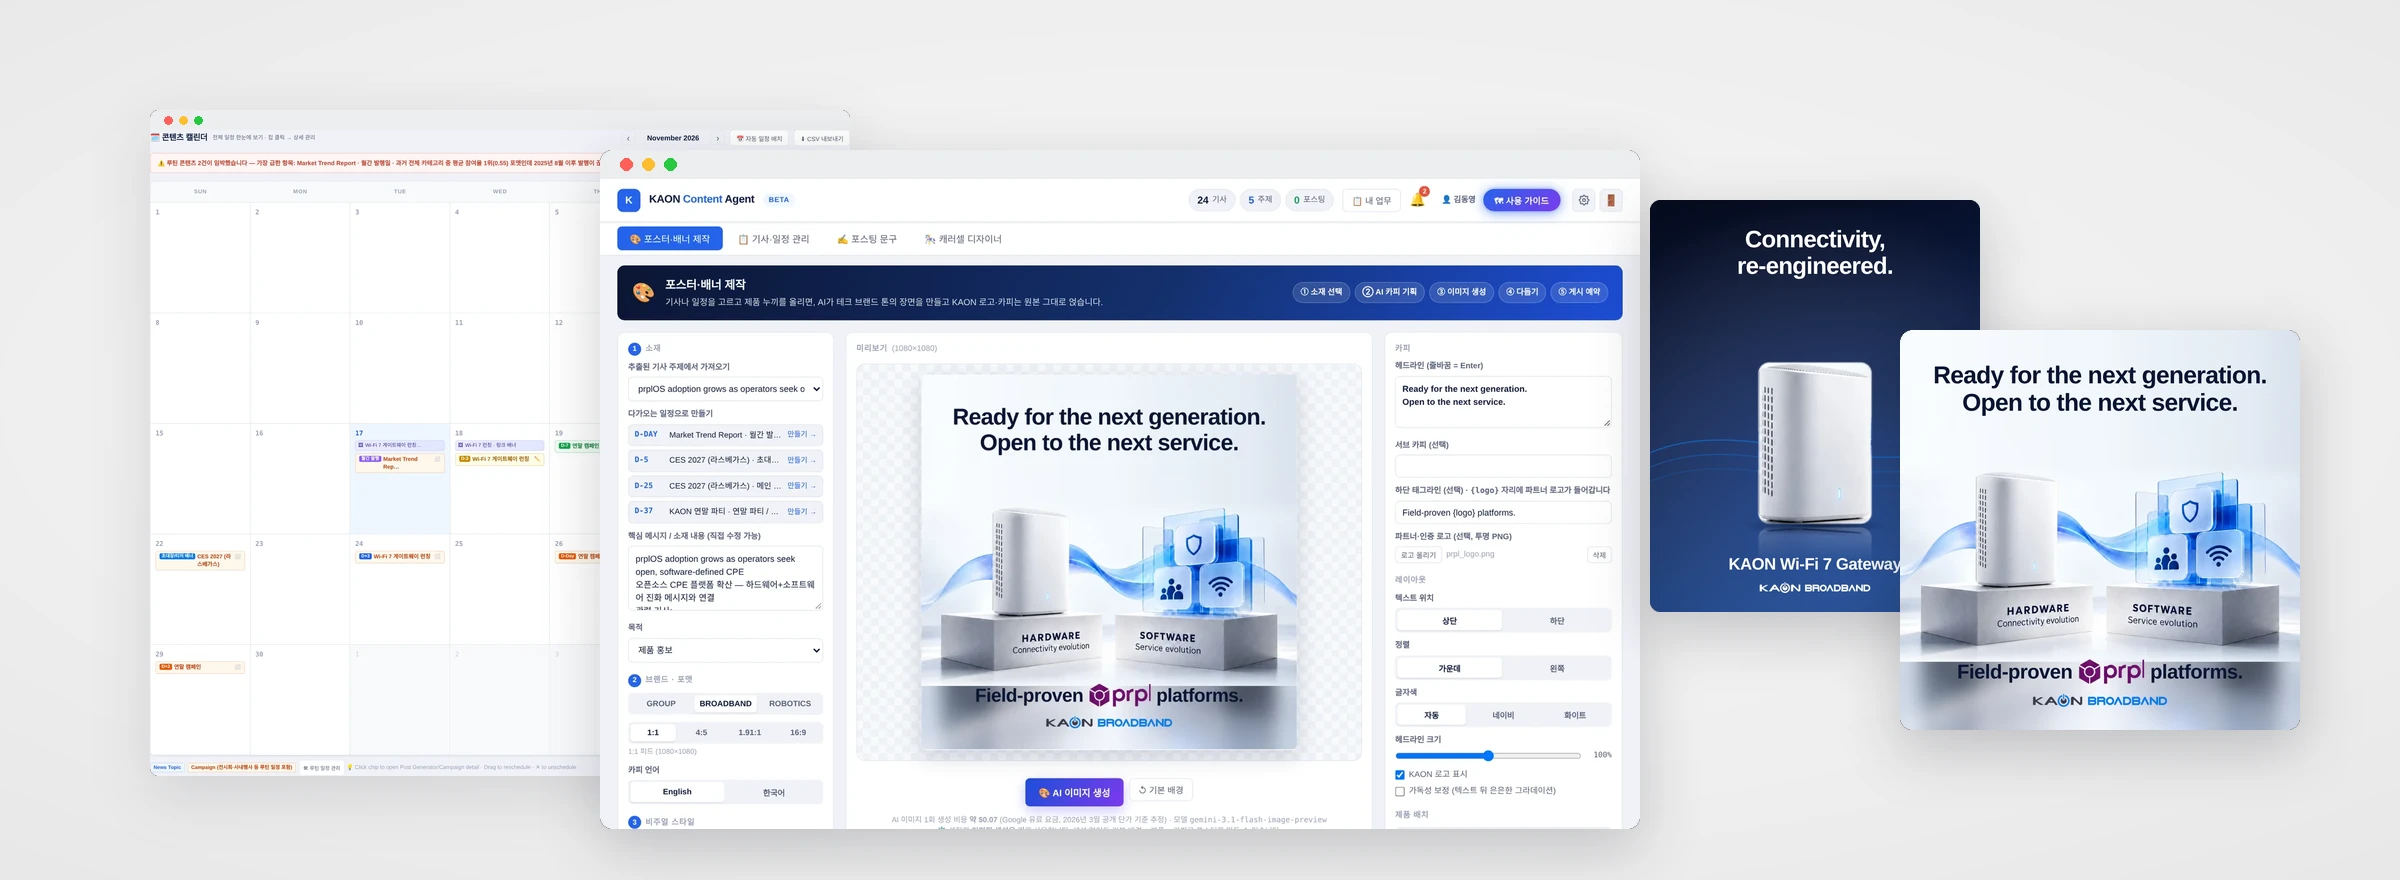
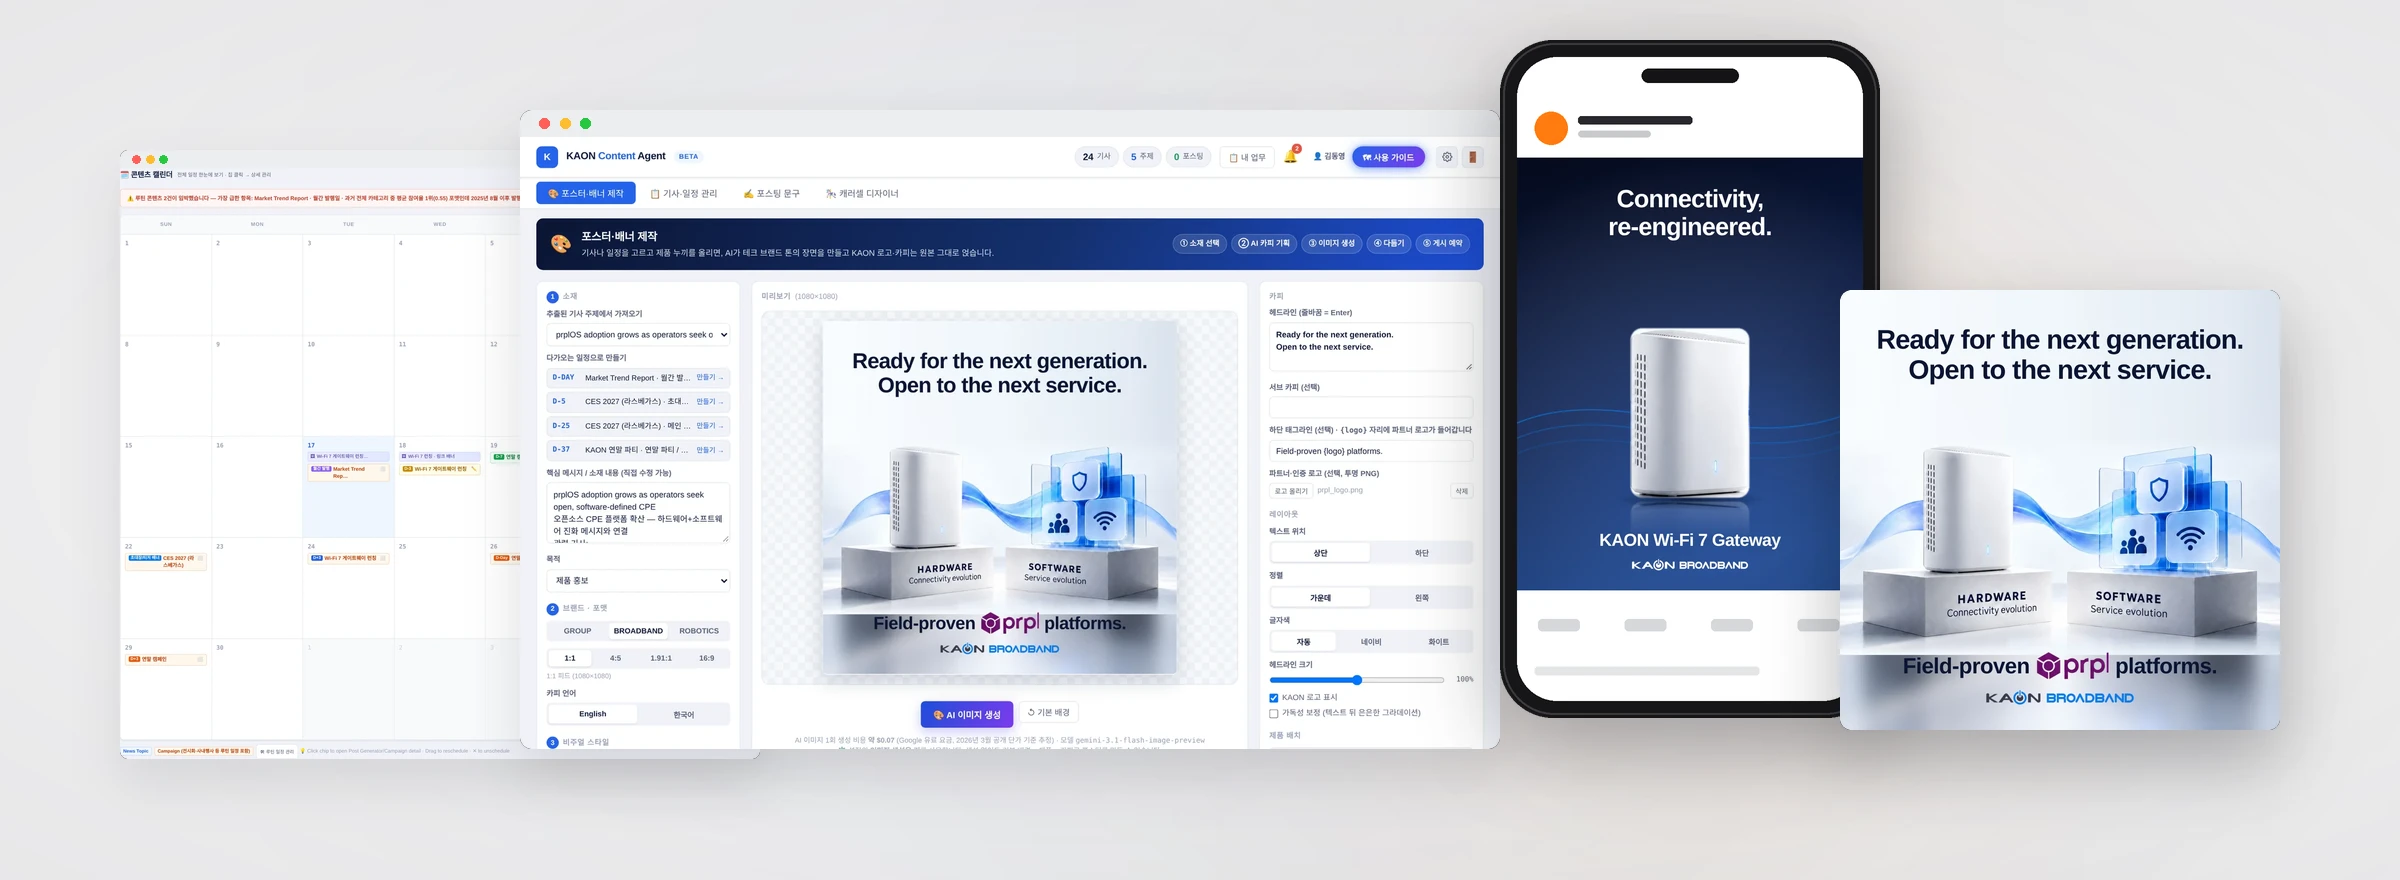
Restage KAON Content Agent thumbnails with feed mockup and larger outputs
Claude-Session: https://claude.ai/code/session_01BFCG5mZW9hgWuvcjPHNUrC

diff --git a/index.html b/index.html
@@ -4444,7 +4444,7 @@ const WORKS=[
    ch:'업계 뉴스와 경쟁사 동향을 매일 수작업으로 검색·정리했고, LinkedIn 소재 발굴에만 주 약 6시간이 들었습니다.',
    ap:'Claude로 KAON Monthly News Dashboard를 설계·구축했습니다. RSS 자동 크롤링 → GitHub 데이터 저장 → 웹 대시보드로 이어지고, News Feed·경쟁사 LinkedIn 아카이브·경쟁사 채널·수집 상태 모니터링 4개 모듈로 구성했습니다.',
    out:'산업 기사 177건 이상을 자동 수집·분류하고, Sagemcom·ZTE·Huawei 등 경쟁사 14곳의 채널을 원클릭으로 모니터링하는 체계를 만들었습니다. 리서치 시간이 주 6시간에서 1시간으로 줄었습니다.'},
-  {title:'KAON Content Agent', page:'agent', feat:1, img:'assets/agent/thumb.webp', imgW:'assets/agent/thumb-wide.webp', sub:'KAON GROUP', tag:'AX · AI Agent Platform', period:'2026.07 — 운영 중', cat:['ai','content'], scene:1,
+  {title:'KAON Content Agent', page:'agent', feat:1, img:'assets/agent/thumb.webp?v=2', imgW:'assets/agent/thumb-wide.webp?v=2', sub:'KAON GROUP', tag:'AX · AI Agent Platform', period:'2026.07 — 운영 중', cat:['ai','content'], scene:1,
    kr:'기사 한 줄에서 LinkedIn 게시까지 잇는 AI 콘텐츠 제작·운영 플랫폼', role:'기획 · 요구사항 정의 · 검수 · 운영 (AI 코딩 에이전트와 협업)', client:'가온그룹 마케팅팀', tools:'Claude (AI 코딩 에이전트), Google Gemini, Supabase, GitHub Pages',
    kpis:[['5단계','소재 → 카피 → 이미지 → 일정 → 게시 통합'],['232건','과거 게시물 분석 기반 추천 게시일'],['91개','자동 브라우저 테스트 항목']],
    ch:'세 브랜드의 LinkedIn 운영에서 소재 발굴·디자인·일정·협업·게시가 각각 다른 도구와 사람에게 흩어져 있었습니다.',
